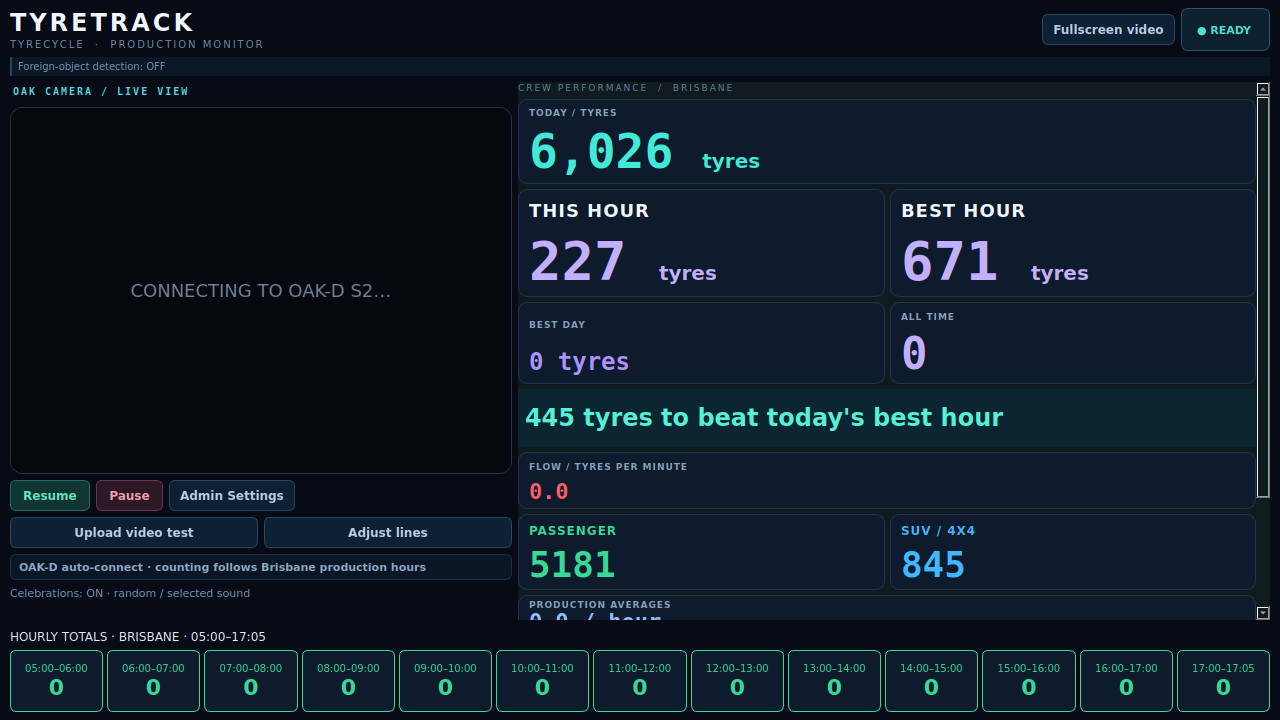
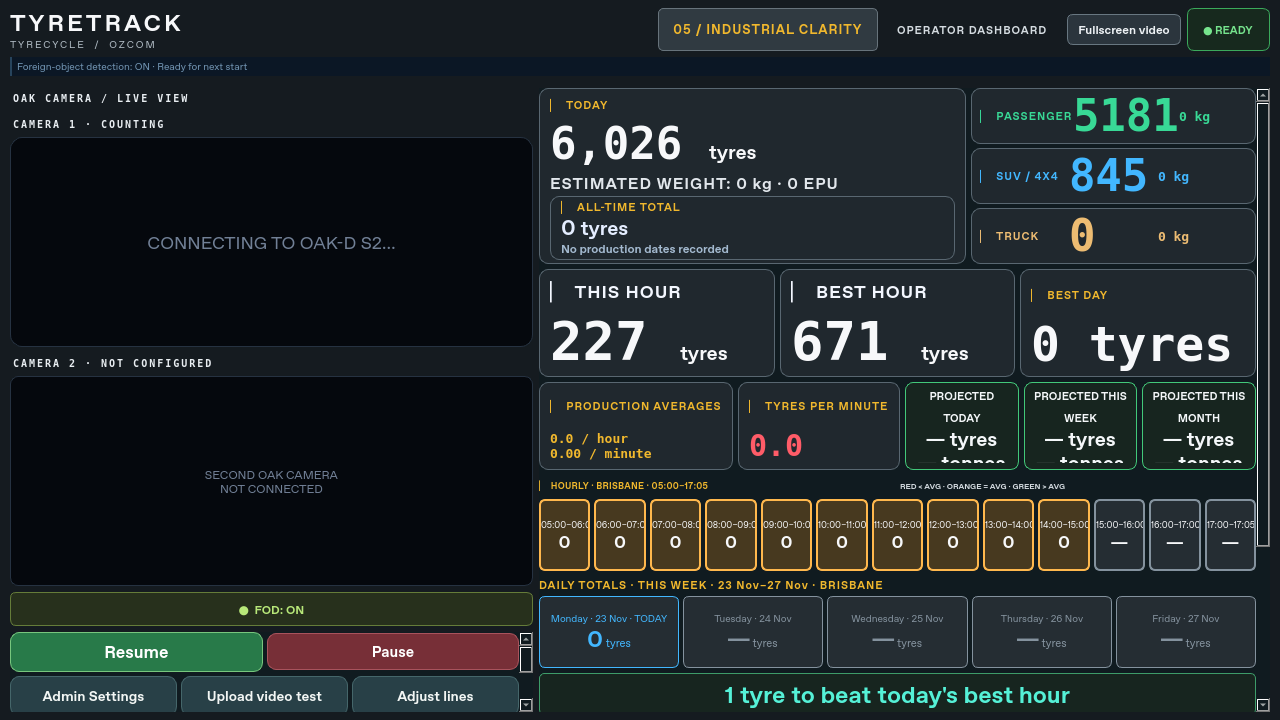
Add files via upload

diff --git a/compare_builds_test.py b/compare_builds_test.py
@@ -42,7 +42,7 @@ report=dict(baseline=contract['baseline'],status='source compatibility checks pa
  unchanged_model_module_or_dependency_files=len(contract['unchanged_files']),
  direct_video_preview_patch_validated=True,
 checks=['Audited best-day SQL aggregation replaces Python full-history scan; original semantics covered by 100k-event parity fixture','Original camera capture class unchanged; PNG encoding moved off GUI thread','OAK preview patch and four real graph combinations are checked by preview_performance_test; foreign YOLOv8 decoding is checked separately by oak_rvc2_test','Original hourly emails, alerts and count writes preserved; two audited daily/scheduler functions now produce PDF+CSV briefings','Existing Windows dependency pins preserved; ReportLab 4.4.9 added for PDFs and pypdf 6.10.0 for CI validation'],
- intentional_changes=['Separate async classification review database, original/size/used totals, clean foreign evidence and human-labelled false-alert export; default Compare only; post-count size measurement and isolated replay comparisons','Experimental belt-width size support: adjustable assumed 1100mm, five stable isolated-box observations, weak visual votes only, observe-only mode and camera-specific edge calibration','Independent grouped live totals; five-second historical refresh with no busy queue; fractional-position marquee on precise 33 ms timer','Branded daily and Friday weekly PDF+CSV management briefings; manual background export; HTML email','Twenty-one owner-supplied celebration clips shuffled on best-hour records only','Today class counts and owner-specified kg/EPU estimates','Native 640x360 live view with original-preview fallback; background PNG encoding retained','Optional sign-in shortcut installer and duplicate-instance lock','Camera stays connected outside shift; count gate remains weekday 05:00–17:05 Brisbane','Experimental shared three-line counter with adjustable top/bottom and horizontal span','OAK-only production input and separate on-screen video tester','Statistics dashboard with equal vertically stacked camera previews, live tyres-per-minute and next-best-hour cards, shift average updated through the current hour, primary-only counting, and 21 shuffled best-hour celebration clips','Additive database indexes and shift-only dashboard query','One-class OAK foreign-object blob and YOLOv8 tensor decoder; one email per confirmed object track; alarm clears after three seconds without detection','Malformed foreign-model output is isolated from the tyre capture stream and surfaces as a foreign-detector fault'],
+ intentional_changes=['Separate async classification review database, original/size/used totals, clean foreign evidence and human-labelled false-alert export; default Compare only; post-count size measurement and isolated replay comparisons','Experimental belt-width size support: confirmed 1180mm with one-time upgrade migration, five stable isolated-box observations, weak visual votes only, observe-only mode and camera-specific edge calibration','Independent grouped live totals; five-second historical refresh with no busy queue; fractional-position marquee on precise 33 ms timer','Branded daily and Friday weekly PDF+CSV management briefings; manual background export; HTML email','Twenty-one owner-supplied celebration clips shuffled on best-hour records only','Today class counts and owner-specified kg/EPU estimates','Native 640x360 live view with original-preview fallback; background PNG encoding retained','Optional sign-in shortcut installer and duplicate-instance lock','Camera stays connected outside shift; count gate remains weekday 05:00–17:05 Brisbane','Experimental shared three-line counter with adjustable top/bottom and horizontal span','OAK-only production input and separate on-screen video tester','Statistics dashboard with equal vertically stacked camera previews, live tyres-per-minute and next-best-hour cards, shift average updated through the current hour, primary-only counting, and 21 shuffled best-hour celebration clips','Additive database indexes and shift-only dashboard query','One-class OAK foreign-object blob and YOLOv8 tensor decoder; one email per confirmed object track; alarm clears after three seconds without detection','Malformed foreign-model output is isolated from the tyre capture stream and surfaces as a foreign-detector fault'],
  physical_site_validation=False,windows_exe_built_in_this_environment=False,speaker_playback_verified=False,
  limitations=['Host-side count logic changed; counting accuracy must be compared with a hand count.','Source checks cannot guarantee camera, network, Windows DLL or speaker behavior on the yard PC.'])
 (ROOT/'BUILD_COMPARISON.json').write_text(json.dumps(report,indent=2))

diff --git a/run_ci_tests.py b/run_ci_tests.py
@@ -2,7 +2,7 @@
 import os,subprocess,sys,time,pathlib
 ROOT=pathlib.Path(__file__).resolve().parent
 LOGS=ROOT/'build_logs';LOGS.mkdir(exist_ok=True)
-TESTS=['overlap_adjustment_ui_test.py','overlap_worker_link_test.py','overlap_adjustment_test.py','overlap_review_test.py','overlap_trial_test.py','classification_replay_test.py','classification_comparison_worker_test.py','classification_review_test.py','classification_review_ui_test.py','belt_width_assist_test.py','foreign_startup_test.py','test_resources_test.py','production_support_test.py','monthly_forecast_test.py','web_snapshot_test.py','web_dashboard_ui_test.py','web_dashboard_test.py','integrity_line_endings_test.py','no_count_reply_ui_test.py','no_count_reply_recovery_test.py','production_forecast_test.py','dashboard_performance_test.py','live_totals_test.py','management_reports_test.py','foreign_report_snapshots_test.py','weekday_dashboard_test.py','tyre_weight_test.py','preview_performance_test.py','startup_support_test.py','celebration_shuffle_test.py','compare_builds_test.py','celebration_audio_test.py','database_upgrade_test.py','line_span_test.py','adjustable_bounds_test.py','video_preview_integration_test.py','onscreen_preview_test.py','video_test_ui_test.py','zigzag_test.py','three_line_test.py','production_schedule_test.py','schedule_metrics_test.py','production_ui_test.py','celebration_test.py','logic_test_isolation_test.py','no_count_replies_test.py','foreign_evidence_test.py','oak_foreign_worker_test.py','oak_integrity_test.py','oak_rvc2_test.py','oak_fov_test.py','oak_recording_test.py','gui_render_test.py','dashboard_async_test.py','oak_ai_test.py','oak_stream_test.py','oak_worker_test.py','tyretrack_report_sync_test.py','foreign_alarm_test.py']
+TESTS=['belt_width_confirmed_test.py','overlap_adjustment_ui_test.py','overlap_worker_link_test.py','overlap_adjustment_test.py','overlap_review_test.py','overlap_trial_test.py','classification_replay_test.py','classification_comparison_worker_test.py','classification_review_test.py','classification_review_ui_test.py','belt_width_assist_test.py','foreign_startup_test.py','test_resources_test.py','production_support_test.py','monthly_forecast_test.py','web_snapshot_test.py','web_dashboard_ui_test.py','web_dashboard_test.py','integrity_line_endings_test.py','no_count_reply_ui_test.py','no_count_reply_recovery_test.py','production_forecast_test.py','dashboard_performance_test.py','live_totals_test.py','management_reports_test.py','foreign_report_snapshots_test.py','weekday_dashboard_test.py','tyre_weight_test.py','preview_performance_test.py','startup_support_test.py','celebration_shuffle_test.py','compare_builds_test.py','celebration_audio_test.py','database_upgrade_test.py','line_span_test.py','adjustable_bounds_test.py','video_preview_integration_test.py','onscreen_preview_test.py','video_test_ui_test.py','zigzag_test.py','three_line_test.py','production_schedule_test.py','schedule_metrics_test.py','production_ui_test.py','celebration_test.py','logic_test_isolation_test.py','no_count_replies_test.py','foreign_evidence_test.py','oak_foreign_worker_test.py','oak_integrity_test.py','oak_rvc2_test.py','oak_fov_test.py','oak_recording_test.py','gui_render_test.py','dashboard_async_test.py','oak_ai_test.py','oak_stream_test.py','oak_worker_test.py','tyretrack_report_sync_test.py','foreign_alarm_test.py']
 for test in TESTS:
     print(f'\n=== START {test} ===',flush=True)
     start=time.monotonic()

diff --git a/overlap_trial.py b/overlap_trial.py
@@ -8,7 +8,7 @@ def read_status(folder):
     try:
         report=json.loads((Path(folder)/'trial_status.json').read_text(encoding='utf-8'))
         stats=report['held_out_test']
-        return dict(status='BLOCKED',title='OVERLAP AI MODEL · OFF · FAILED VALIDATION',
+        return dict(status='BLOCKED',title='OVERLAP AI MODEL · OFF · NEEDS MORE VALIDATION',
                     detail=f"Held-out test: {stats['tp']} matched groups / {stats['tp']+stats['fn']} labelled; "
                            f"false detections on {stats['false_positive_images']} / {stats['negative_images']} normal frames.",
                     report=report)
@@ -31,7 +31,7 @@ def dashboard_panel(parent,folder):
             'camera inference, foreign alarms or production counts are enabled.\n\n'
             'To verify whether overlapped tyres were counted, review the timestamped clip alongside the recorded '
             'tyre tracks and actual count events. An overlap box cannot tell us how many hidden tyres are present. '
-            'The separate geometric review links observed tyre IDs to actual count events; it does not run this failed model or prove how many hidden tyres exist.\n\n'
+            'The separate geometric review links observed tyre IDs to actual count events; it does not run this experimental model or prove how many hidden tyres exist.\n\n'
             'Next step: collect and annotate more independent overlap events, retrain and evaluate fresh footage.')
     button.clicked.connect(explain)
     layout.addWidget(title);layout.addWidget(detail);layout.addWidget(button)

diff --git a/classification_comparison_worker_test.py b/classification_comparison_worker_test.py
@@ -38,7 +38,7 @@ with tempfile.TemporaryDirectory() as tmp:
  assert len(counts)==1 and worker.session_count==1,(counts,statuses)
  rows=worker.audit.rows();assert len(rows)==1,rows
  p=rows[0]['payload'];assert p['original_class']=='passenger' and p['final_class']=='passenger',p
- assert p['diameter_mm'] and abs(p['diameter_mm']-836)<5,p
+ assert p['diameter_mm'] and abs(p['diameter_mm']-(.76*1180))<5,p
  assert p['size_candidate']=='4x4' and p['assisted_class']=='4x4' and p['disagreement'],p
  assert p['measurement_frame']>p['frame_sequence'],p
  print('PASS real OAK worker simulated inference: one production count, later stable measurement attached once, original preserved, SUV proposal recorded in Compare only')

diff --git a/overlap_trial_test.py b/overlap_trial_test.py
@@ -4,7 +4,7 @@ from pathlib import Path
 from overlap_trial import read_status,dashboard_panel
 root=Path(__file__).resolve().parent
 r=read_status(root/'overlap_model');assert r['status']=='BLOCKED'
-assert '0 matched groups / 5 labelled' in r['detail'] and '23 / 34' in r['detail']
+assert '4 matched groups / 8 labelled' in r['detail'] and '1 / 336' in r['detail']
 assert r['report']['live_enabled'] is False
 for name,digest in r['report']['model_hashes'].items():assert hashlib.sha256((root/'overlap_model'/name).read_bytes()).hexdigest()==digest
 assert read_status(root/'nonexistent')['status']=='BLOCKED'
